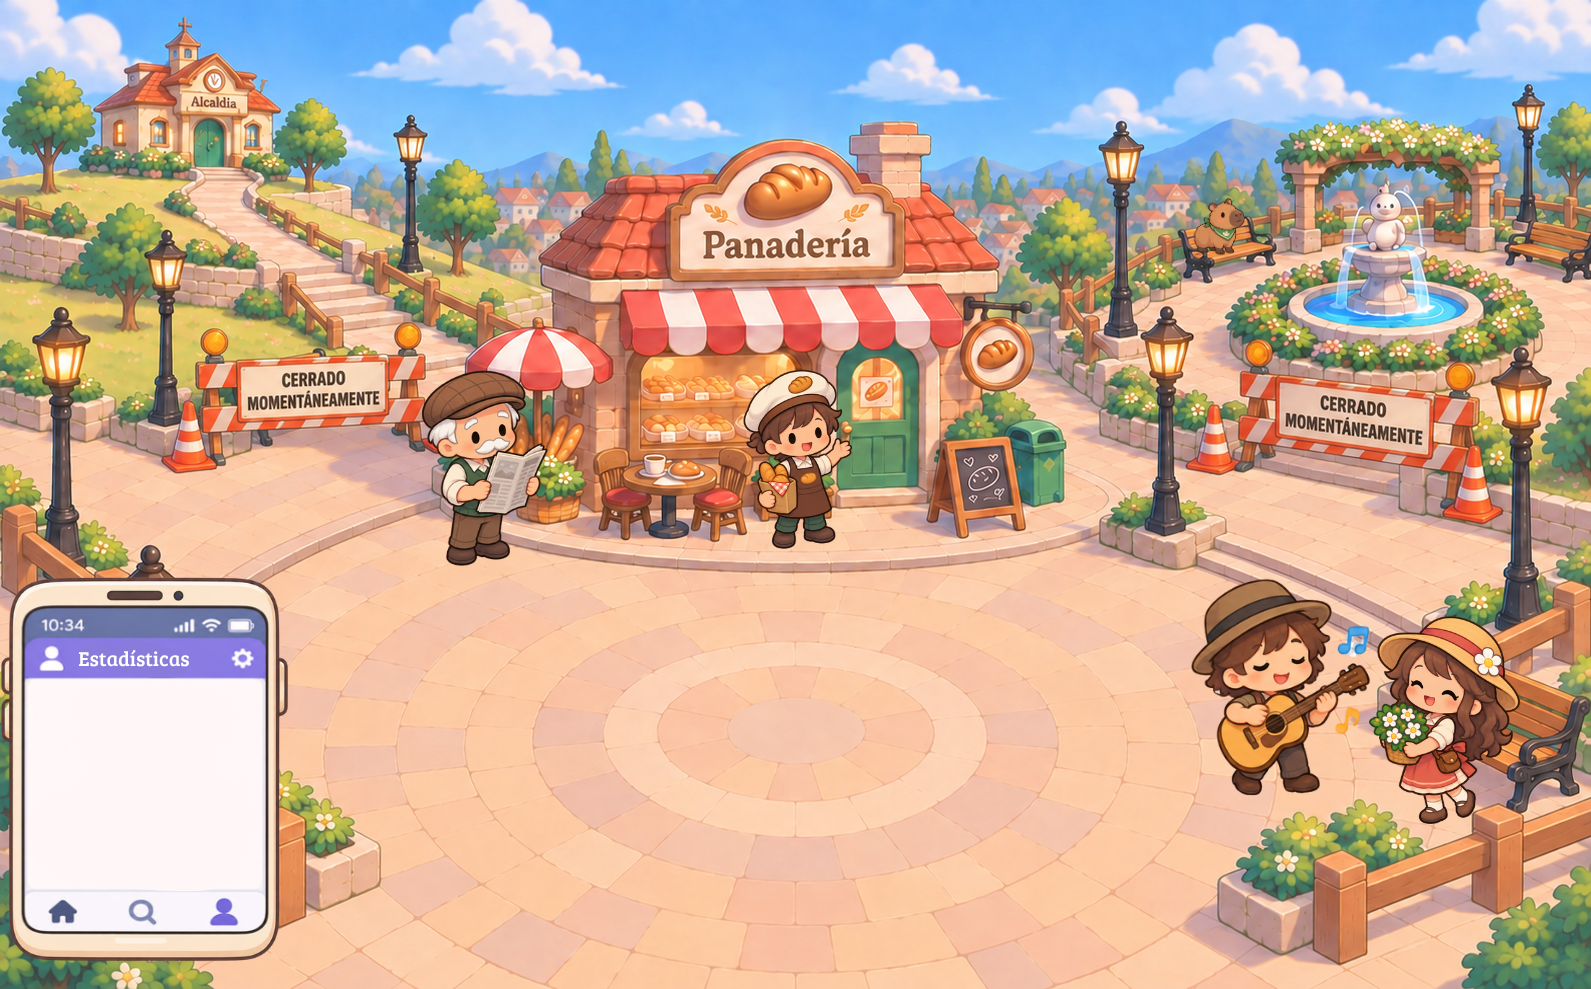
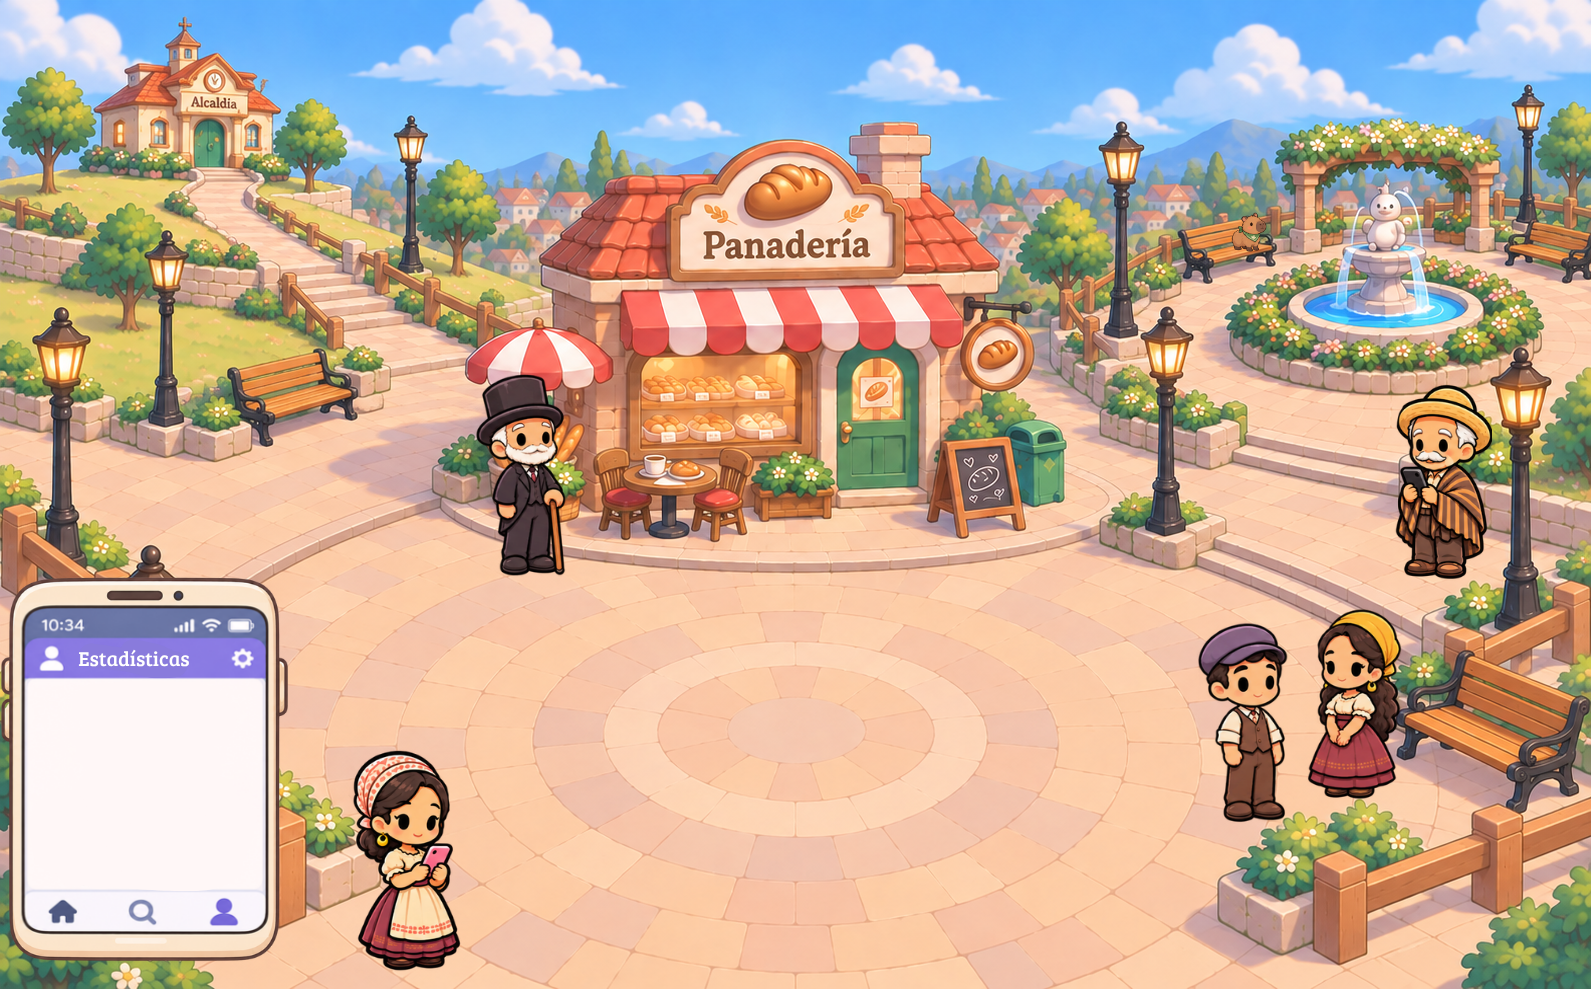
actualizacion cambios del piloto

diff --git a/src/juegoferia/partvisual.java b/src/juegoferia/partvisual.java
@@ -62,9 +62,11 @@ public class partvisual extends javax.swing.JFrame implements KeyListener {
     private int posicionExteriorY;
     private int velocidad = 3;
     private BufferedImage mapaColisiones;
+    private BufferedImage mapaColisionesCasa;
     private BufferedImage mapaInteracciones;
     private BufferedImage mapaClicsCelular;
     private BufferedImage mapaColisionesPanaderia;
+    private boolean casaActiva = true;
     private boolean teclaW = false;
     private boolean teclaA = false;
     private boolean teclaS = false;
@@ -585,6 +587,15 @@ Digitarnombre.setFont(
             e.printStackTrace();
         }
         try {
+            mapaColisionesCasa = ImageIO.read(
+        getClass().getResourceAsStream(
+                "/imagenes/colisiones_casa.png"
+        )
+            );
+        } catch (IOException e) {
+            e.printStackTrace();
+        }
+        try {
             mapaColisionesPanaderia = ImageIO.read(
         getClass().getResourceAsStream(
                 "/imagenes/colisiones_panaderia.png"
@@ -701,7 +712,7 @@ if (celularAbierto && estarperfil(x, y)) {
             }
         });
         ImageIcon iconoFondo = new ImageIcon(
-                getClass().getResource("/imagenes/exteriorsin.png")
+                getClass().getResource("/imagenes/casapuertasin.png")
         );
 
         Image imagenFondo = iconoFondo.getImage();
@@ -2753,10 +2764,18 @@ timerConsecuenciaC.start();
     BufferedImage mapaActual;
 
 if (dentroPanaderia) {
+
     mapaActual = mapaColisionesPanaderia;
+
+} else if (casaActiva) {
+
+    mapaActual = mapaColisionesCasa;
+
 } else {
+
     mapaActual = mapaColisiones;
 }
+
 
 if (mapaActual == null) {
     return true;
@@ -2797,6 +2816,20 @@ if (mapaActual == null) {
     boolean estaEnPuerta = rojoIzquierda
             || rojoCentro
             || rojoDerecha;
+    
+    // Si está en la casa y llega a la zona roja,
+// pasar al exterior de la panadería.
+if (casaActiva && estaEnPuerta) {
+
+    cambiarAExteriorPanaderia();
+
+    return false;
+}
+    
+    
+    
+    
+    
 
     // Si llegó a la zona roja, abre la puerta
     if (estaEnPuerta && !panaderiaAbierta) {
@@ -2881,6 +2914,70 @@ posicionExteriorY = personajeJuego.getY();
         cambiarFondoJuego("/imagenes/exteriorsin.png");
     }
 }
+    private void actualizarImagenCasa() {
+
+    if (!casaActiva) {
+        return;
+    }
+
+    if (twitterAbierto) {
+        cambiarFondoJuego("/imagenes/casapuertatw.png");
+
+    } else if (mensajesAbierto) {
+        cambiarFondoJuego("/imagenes/casapuertams.png");
+
+    } else if (perfilAbierto) {
+        cambiarFondoJuego("/imagenes/casapuertapf.png");
+
+    } else if (celularAbierto) {
+        cambiarFondoJuego("/imagenes/casapuertacon.png");
+
+    } else {
+        cambiarFondoJuego("/imagenes/casapuertasin.png");
+    }
+}
+  
+  private void cambiarAExteriorPanaderia() {
+
+    // Desactivar el escenario de la casa
+    casaActiva = false;
+
+    // La puerta todavía debe estar cerrada
+    panaderiaAbierta = false;
+    dentroPanaderia = false;
+
+    // Cerrar el celular y sus aplicaciones
+    celularAbierto = false;
+    twitterAbierto = false;
+    mensajesAbierto = false;
+    perfilAbierto = false;
+
+    // Mostrar el exterior de la panadería
+    cambiarFondoJuego("/imagenes/exteriorsin.png");
+
+    // Ubicar al personaje en el exterior
+    personajeJuego.setLocation(700, 600);
+
+    juego.repaint();
+}  
+    
+    
+    
+    
+    
+    
+    
+    
+    
+    
+    
+    
+    
+    
+    
+    
+    
+    
     private void actualizarImagenPuerta() {
 
     if (!panaderiaAbierta) {
@@ -2909,56 +3006,39 @@ private void actualizarImagenCelular() {
 
         if (twitterAbierto) {
             cambiarFondoJuego("/imagenes/panaderiatw.png");
-
         } else if (mensajesAbierto) {
             cambiarFondoJuego("/imagenes/panaderiams.png");
-
         } else if (perfilAbierto) {
             cambiarFondoJuego("/imagenes/panaderiapf.png");
-
         } else if (celularAbierto) {
             cambiarFondoJuego("/imagenes/panaderiacon.png");
-
         } else {
             cambiarFondoJuego("/imagenes/panaderiasin.png");
         }
 
+    } else if (casaActiva) {
+
+        actualizarImagenCasa();
+
     } else if (panaderiaAbierta) {
 
-        if (twitterAbierto) {
-            cambiarFondoJuego("/imagenes/puertatw.png");
-
-        } else if (mensajesAbierto) {
-            cambiarFondoJuego("/imagenes/puertams.png");
-
-        } else if (perfilAbierto) {
-            cambiarFondoJuego("/imagenes/puertapf.png");
-
-        } else if (celularAbierto) {
-            cambiarFondoJuego("/imagenes/puertacon.png");
-
-        } else {
-            cambiarFondoJuego("/imagenes/puertasin.png");
-        }
+        actualizarImagenPuerta();
 
     } else {
 
         if (twitterAbierto) {
             cambiarFondoJuego("/imagenes/exteriortw.png");
-
         } else if (mensajesAbierto) {
             cambiarFondoJuego("/imagenes/exteriorms.png");
-
         } else if (perfilAbierto) {
             cambiarFondoJuego("/imagenes/exteriorpf.png");
-
         } else if (celularAbierto) {
             cambiarFondoJuego("/imagenes/exteriorcon.png");
-
         } else {
             cambiarFondoJuego("/imagenes/exteriorsin.png");
         }
     }
+
     actualizarNombrePerfil();
 }
 private boolean estaEnInteraccion(int x, int y) {
